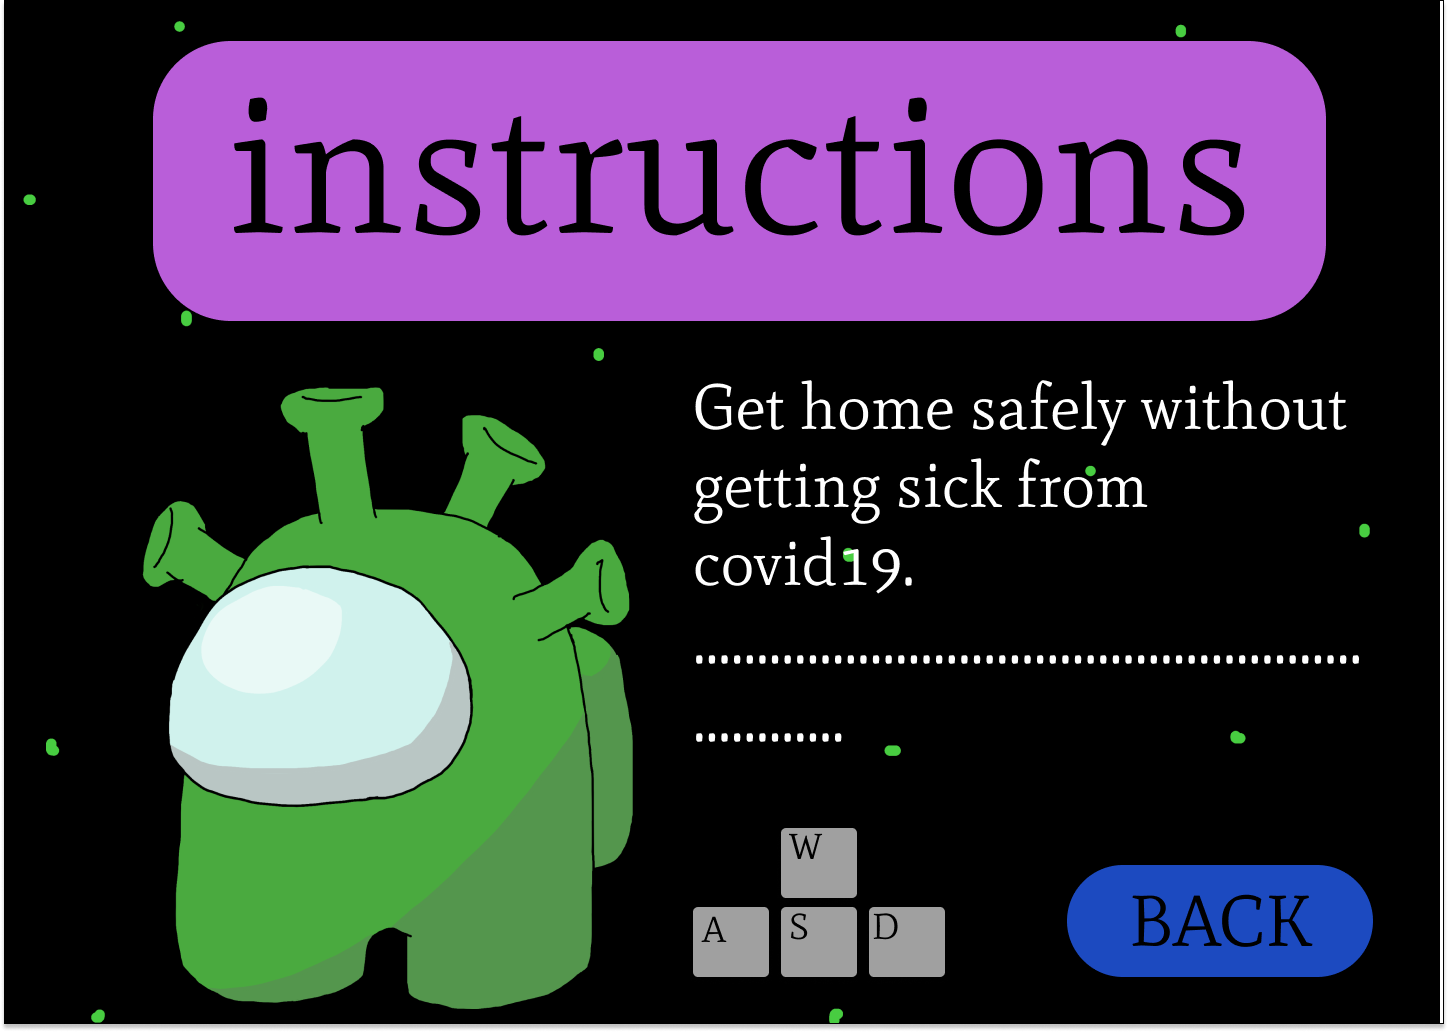
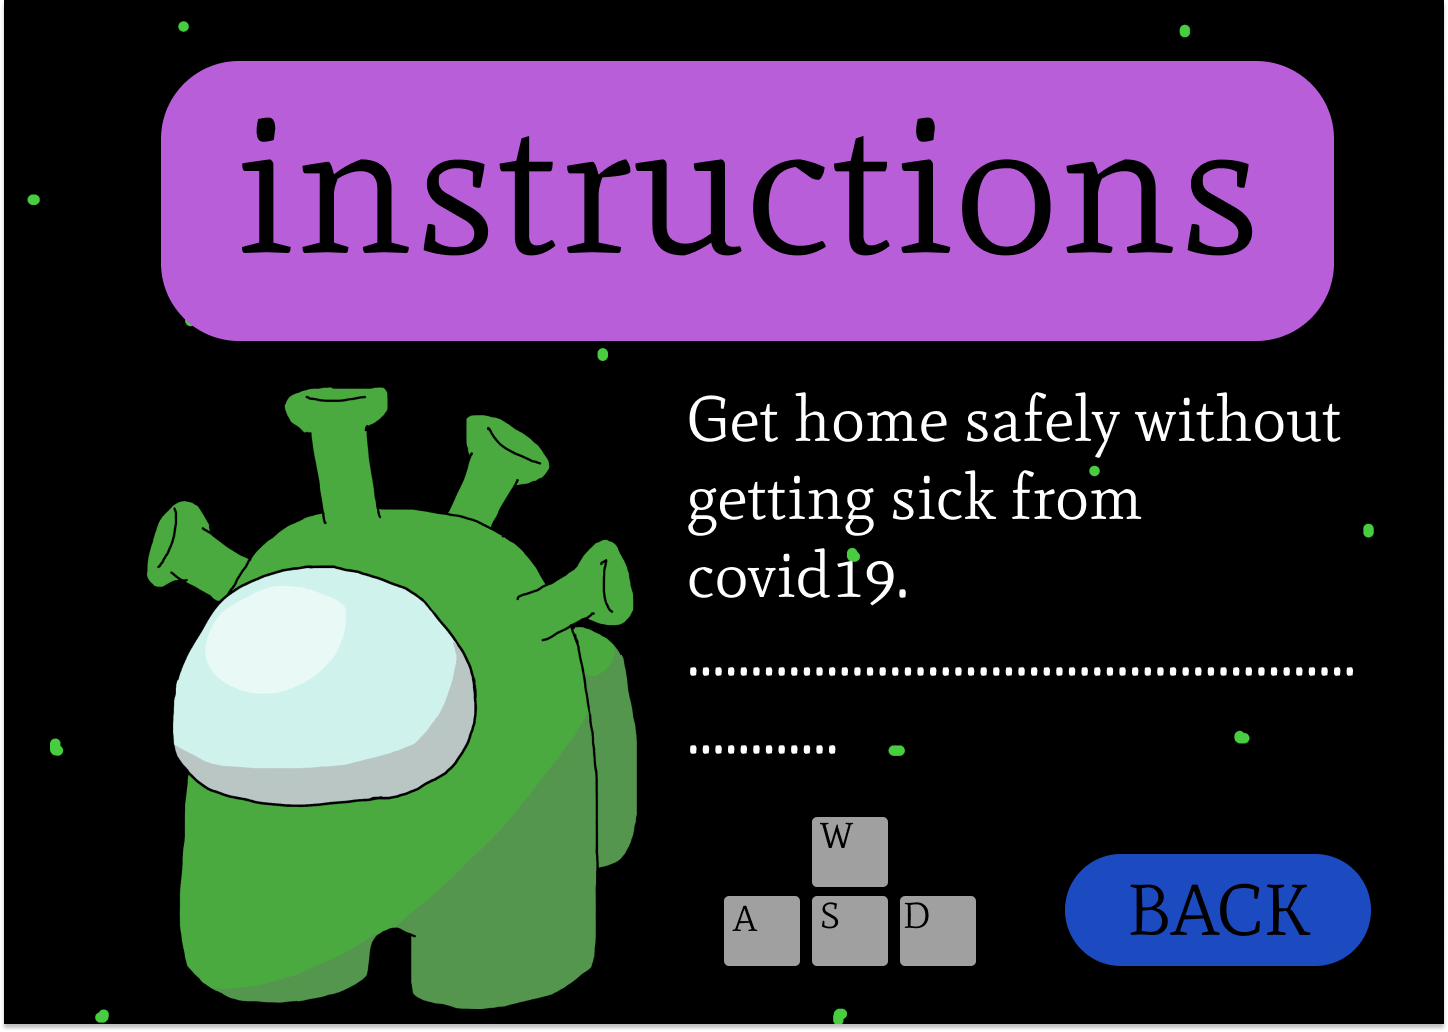
home screen image updates

diff --git a/index.css b/index.css
@@ -3,7 +3,7 @@ h1 {
   width: 944px;
   height: 244px;
   left: 270px;
-  
+  top: -15px;
 
   font-family: Mate;
   font-style: normal;
@@ -66,19 +66,28 @@ h1 {
   border-radius: 78px;
   
 }
-body {
+canvas {
   background-image: url("SBH_homepage 1.png");
 }
 #overlay {
-  position: fixed;
+  position: absolute;
   display: none;
-  width: 100%;
-  height: 100%;
-  top: 0;
-  left: 0;
+  width: 1440px;
+  height: 1024px;
+  top: 9px;
+  left: 4px;
   right: 0;
   bottom: 0;
   background-image: url("instructions.png");
   z-index: 2;
   cursor: pointer;
+}
+body {
+  width: 1440px;
+  height: 1024px;
+}
+html {
+
+  width: 1440px;
+  height: 1024px;
 }

diff --git a/index.html b/index.html
@@ -2,6 +2,7 @@
 <html>
 
 <head>
+  <canvas id="canvas" width=1440 height=1024></canvas>
   <script type="text/javascript" src="index.js"></script>
   <link rel="stylesheet" href="index.css">
 
